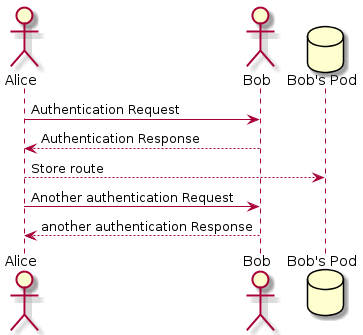
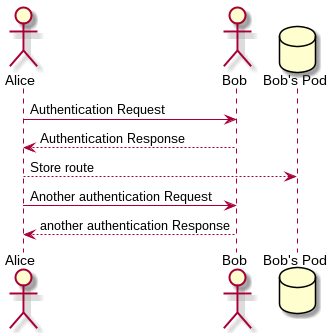
Updates

diff --git a/index.html b/index.html
@@ -4,7 +4,7 @@
 <meta charset="UTF-8">
 <meta http-equiv="X-UA-Compatible" content="IE=edge">
 <meta name="viewport" content="width=device-width, initial-scale=1.0">
-<meta name="generator" content="Asciidoctor 2.0.16">
+<meta name="generator" content="Asciidoctor 2.0.17">
 <title>DeDe_en2a</title>
 <link rel="stylesheet" href="https://fonts.googleapis.com/css?family=Open+Sans:300,300italic,400,400italic,600,600italic%7CNoto+Serif:400,400italic,700,700italic%7CDroid+Sans+Mono:400,700">
 <style>
@@ -193,7 +193,8 @@ body.toc2.toc-right{padding-left:0;padding-right:20em}}
 #content h1>a.link:hover,h2>a.link:hover,h3>a.link:hover,#toctitle>a.link:hover,.sidebarblock>.content>.title>a.link:hover,h4>a.link:hover,h5>a.link:hover,h6>a.link:hover{color:#a53221}
 details,.audioblock,.imageblock,.literalblock,.listingblock,.stemblock,.videoblock{margin-bottom:1.25em}
 details{margin-left:1.25rem}
-details>summary{cursor:pointer;display:block;position:relative;line-height:1.6;margin-bottom:.625rem;-webkit-tap-highlight-color:transparent}
+details>summary{cursor:pointer;display:block;position:relative;line-height:1.6;margin-bottom:.625rem;outline:none;-webkit-tap-highlight-color:transparent}
+details>summary::-webkit-details-marker{display:none}
 details>summary::before{content:"";border:solid transparent;border-left:solid;border-width:.3em 0 .3em .5em;position:absolute;top:.5em;left:-1.25rem;transform:translateX(15%)}
 details[open]>summary::before{border:solid transparent;border-top:solid;border-width:.5em .3em 0;transform:translateY(15%)}
 details>summary::after{content:"";width:1.25rem;height:1em;position:absolute;top:.3em;left:-1.25rem}
@@ -235,9 +236,8 @@ pre.prettyprint li:not(:first-child) code[data-lang]::before{display:none}
 table.linenotable{border-collapse:separate;border:0;margin-bottom:0;background:none}
 table.linenotable td[class]{color:inherit;vertical-align:top;padding:0;line-height:inherit;white-space:normal}
 table.linenotable td.code{padding-left:.75em}
-table.linenotable td.linenos{border-right:1px solid;opacity:.35;padding-right:.5em}
-pre.pygments .lineno{border-right:1px solid;opacity:.35;display:inline-block;margin-right:.75em}
-pre.pygments .lineno::before{content:"";margin-right:-.125em}
+table.linenotable td.linenos,pre.pygments .linenos{border-right:1px solid;opacity:.35;padding-right:.5em;-webkit-user-select:none;-moz-user-select:none;-ms-user-select:none;user-select:none}
+pre.pygments span.linenos{display:inline-block;margin-right:.75em}
 .quoteblock{margin:0 1em 1.25em 1.5em;display:table}
 .quoteblock:not(.excerpt)>.title{margin-left:-1.5em;margin-bottom:.75em}
 .quoteblock blockquote,.quoteblock p{color:rgba(0,0,0,.85);font-size:1.15rem;line-height:1.75;word-spacing:.1em;letter-spacing:0;font-style:italic;text-align:justify}
@@ -274,7 +274,7 @@ table.frame-none>colgroup+*>:first-child>*,table.frame-sides>colgroup+*>:first-c
 table.frame-none>:last-child>:last-child>*,table.frame-sides>:last-child>:last-child>*{border-bottom-width:0}
 table.frame-none>*>tr>:first-child,table.frame-ends>*>tr>:first-child{border-left-width:0}
 table.frame-none>*>tr>:last-child,table.frame-ends>*>tr>:last-child{border-right-width:0}
-table.stripes-all tr,table.stripes-odd tr:nth-of-type(odd),table.stripes-even tr:nth-of-type(even),table.stripes-hover tr:hover{background:#f8f8f7}
+table.stripes-all>*>tr,table.stripes-odd>*>tr:nth-of-type(odd),table.stripes-even>*>tr:nth-of-type(even),table.stripes-hover>*>tr:hover{background:#f8f8f7}
 th.halign-left,td.halign-left{text-align:left}
 th.halign-right,td.halign-right{text-align:right}
 th.halign-center,td.halign-center{text-align:center}
@@ -290,10 +290,11 @@ ol{margin-left:1.75em}
 ul li ol{margin-left:1.5em}
 dl dd{margin-left:1.125em}
 dl dd:last-child,dl dd:last-child>:last-child{margin-bottom:0}
-ol>li p,ul>li p,ul dd,ol dd,.olist .olist,.ulist .ulist,.ulist .olist,.olist .ulist{margin-bottom:.625em}
+li p,ul dd,ol dd,.olist .olist,.ulist .ulist,.ulist .olist,.olist .ulist{margin-bottom:.625em}
 ul.checklist,ul.none,ol.none,ul.no-bullet,ol.no-bullet,ol.unnumbered,ul.unstyled,ol.unstyled{list-style-type:none}
 ul.no-bullet,ol.no-bullet,ol.unnumbered{margin-left:.625em}
 ul.unstyled,ol.unstyled{margin-left:0}
+li>p:empty:only-child::before{content:"";display:inline-block}
 ul.checklist>li>p:first-child{margin-left:-1em}
 ul.checklist>li>p:first-child>.fa-square-o:first-child,ul.checklist>li>p:first-child>.fa-check-square-o:first-child{width:1.25em;font-size:.8em;position:relative;bottom:.125em}
 ul.checklist>li>p:first-child>input[type=checkbox]:first-child{margin-right:.25em}
@@ -336,8 +337,6 @@ sup.footnote a:active,sup.footnoteref a:active{text-decoration:underline}
 #footnotes .footnote a:first-of-type{font-weight:bold;text-decoration:none;margin-left:-1.05em}
 #footnotes .footnote:last-of-type{margin-bottom:0}
 #content #footnotes{margin-top:-.625em;margin-bottom:0;padding:.75em 0}
-.gist .file-data>table{border:0;background:#fff;width:100%;margin-bottom:0}
-.gist .file-data>table td.line-data{width:99%}
 div.unbreakable{page-break-inside:avoid}
 .big{font-size:larger}
 .small{font-size:smaller}
@@ -1214,7 +1213,7 @@ building block instances depicted in this diagram.&gt;</em></p>
 </div>
 <div class="imageblock">
 <div class="content">
-<img src="./images/Sequence%20diagram.png" alt="Sequence diagram" width="363" height="335">
+<img src="./images/Sequence%20diagram.png" alt="Sequence diagram" width="332" height="333">
 </div>
 </div>
 </div>
@@ -1741,7 +1740,7 @@ Created by Dr. Peter Hruschka &amp; Dr. Gernot Starke.</p>
 </div>
 <div id="footer">
 <div id="footer-text">
-Last updated 2022-01-28 18:43:28 UTC
+Last updated 2022-02-07 11:34:00 +0100
 </div>
 </div>
 </body>
